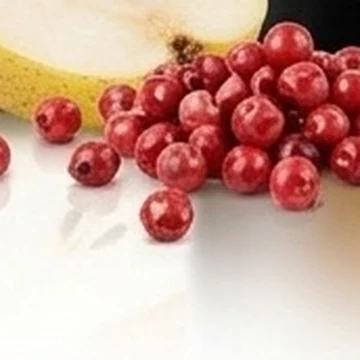
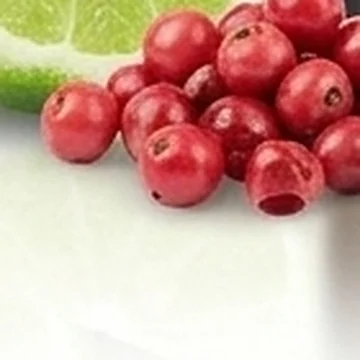
v30b: visų kvapų natos su tikromis ingredientų nuotraukomis
- 40 natų nuotraukų, iškirptų iš 10 kvapų aliejų nuotraukų vienodu stiliumi
  (img/natos/, 360 px WebP); notes.json - pavadinimai ir sinonimai,
  check.mjs tikrina failus.
- Migracija 20261122110000_scent_notes.sql: visų kvapų natos pilnos ir
  teisingos pagal originalą, LIBRADORE - Yves Saint Laurent Libre,
  aprašymų natų sakinys ir šūkiai sutvarkyti.

Claude-Session: https://claude.ai/code/session_016fuiRzwq9pvMJAwpfmVS4b

diff --git a/CLAUDE.md b/CLAUDE.md
@@ -44,6 +44,7 @@ Duomenų bazė, paskyros, failai ir serverio funkcijos – **Supabase** (projekt
 - v29: prekės puslapis pagal kategoriją (`28-story.js`, `13-story.css`): po pavadinimu – paantraštė (`subtitleOf`: produkto → tipo → kvepalams „Eau de Parfum · Unisex“; kategorijos nuorodos virš pavadinimo nebėra); aprašymas – pastraipos, pavadinimas, talpa ir natos paryškinami automatiškai (`descHTML`, LT galūnės, kiekviena – vieną kartą; aprašymas, prasidedantis pavadinimu, jo nekartoja – v29d), ilgas – „Skaityti daugiau“; po pirkimu – blokai (`storyHTML`, rodomi tik su duomenimis): natos (kvepalams – segmentai Viršutinės · Širdies · Bazinės, `.ntSeg`, aukštis nesikeičia; kitiems – 3 pagrindinės), kvapo charakteris (ilgaamžiškumas / sklaida – tik ne numatytos 3), nuotaikos juosta (įkelta nuotrauka – `moodOf`: produktas → bendras kvapas; be jos – „kvapo linija“: tikros to paties kvapo formų nuotraukos), „Kaip naudoti“ (žingsniai, telefone – slenkama eilė), „Kur …“ piktogramos (`STORY_ICO` – savos linijinės), mėginuko kortelė, pastaba; išskleidžiamos dalys – pabaigoje. Tekstai pagal tipą – `src/data/pdp.json` (`window.VAIDORE_PDP`) + administravimo `settings.pdp[tipas]` (`pdpOf`). Natų nuotraukos – TIK tikri ingredientai iš Vaidore produktų nuotraukų: numatytoji biblioteka `src/data/notes.json` + `img/natos/` (`window.VAIDORE_NOTES`), bazėje `note_media` – papildo ir perrašo (`noteMedia`: „Madagaskaro vanilė“ → „Vanilė“). Jokių savų kompozicijų ar piešinių vietoje nuotraukų. Kompiuteryje – iki 1100 px, bloko antraštė kairėje, turinys dešinėje; įsiliejimas slenkant (`bindStory`, be judesio – jei išjungtas).
 - v29b: aliejai – natos, kvapo linija, „Kaip naudoti“ su elektriniu difuzoriumi, saugos pastaba; elektriniai difuzoriai – „Kaip veikia“, „Kur naudoti“, „Priežiūra“ (be natų ir kvapo linijos); žvakės – natos, „Pirmasis uždegimas ir priežiūra“, saugos pastaba. „Pagrindinės natos“ – pirmiausia natos su skirtingomis tikromis nuotraukomis (`mainNotes`).
 - v29c: administravimas (`src/scripts/admin/15-pdp.js`, migracija `20261122090000_product_page.sql`): Katalogas → Natos (`admin/natos` – natų biblioteka `note_media`: „Iškirpti iš produkto nuotraukos“ – bet kuri parduotuvės nuotrauka, tempiama / mastelis, 480 px WebP `products/natos/…`; „Įkelti nuotrauką“, „Pašalinti“), Produktas → „Puslapio turinys“ (paantraštė, nuotaikos juosta), Kvapas → „Nuotaikos juosta“, Vitrina → Prekių puslapiai (`admin/vitrina/puslapiai` – `settings.pdp`, išsaugomi tik skirtumai nuo `pdp.json`). Be migracijos stulpelių laukai nerodomi. Išsamiau – ARCHITECTURE „Prekės puslapis pagal kategoriją (v29)“.
+- v30b: natų biblioteka - 40 tikrų ingredientų nuotraukų, iškirptų iš Vaidore aliejų nuotraukų (10 kvapų) vienodu stiliumi (`img/natos/`, 360 px WebP); `src/data/notes.json` - pavadinimai ir sinonimai (pvz. „Tonka pupelės“, „Ambrinė mediena“, „Hedionas“ → jazminas), `check.mjs` tikrina failus. Ingredientas įvardytas pagal to kvapo originalo natas. Visų kvapų natos (viršutinės, širdies, bazinės) - pilnos ir teisingos pagal originalą; LIBRADORE - Yves Saint Laurent Libre (ne Good Girl): migracija `20261122110000_scent_notes.sql` (natos, natų sakinys aprašyme, šūkiai). Natos be nuotraukos (muskusas, ąžuolo samanos, citrina, imbieras, vetiveris…) - monograma, kol nėra tikros nuotraukos.
 - Be „Kada tinka“ (v19): sezonų, paros laiko ir progų nėra niekur – nei parduotuvėje (filtrai, „Kam skirti“, paieška, kvapo testas – 3 klausimai), nei administravime (produkto ir kvapo formos, skyrių taisyklės, automatinis užpildymas ir jo aprašymai). Stulpeliai `seasons/times/occasions` duomenų bazėje lieka nenaudojami. Nepridėti atgal.
 - Originalas „Įkvėpti …“ (v18): kortelėse vietoj natų – originalo blokelis (`inspiredHTML(p, "card" | "lg" | "sm")`, `splitInspired` – 03-catalog.js; stiliai `.insp`, `.inspPh`, `.inspBrand`, `.inspName` – 05-products.css): kairėje kvadratinė originalo nuotrauka (`products.inspired_image` → `p.inspiredImage`; nėra – prekės ženklo raidė), dešinėje prekės ženklas ir kvapo pavadinimas; be originalo – šūkis (`.cardTag`), kortelės lygios. Produkto puslapyje (v24) – toks pat kaip karuselėse, vienoje eilutėje, tik stambesnis (`inspiredHTML(p, "pd")`, `.insp-pd`: 52 px nuotrauka, 18 px tekstas), pirmas `.pdInfo` elementas – telefone iškart po nuotrauka, kompiuteryje po pavadinimu; paieškoje – mažas. Nuotrauka įkeliama administravime Kvapai → kvapas (`scents.inspired_image`, migracija `20261121090000_scent_inspired_image.sql`, kelias `products/originalai/…`), visada pritaikoma susietiems produktams (be stulpelio `scents.inspired_image` – laikoma tik produktuose); įkelti galima tik kvape (v19), produkto formoje – tik miniatiūra. Natų eilutės (`.pdKey`) produkto puslapyje nėra. Nustatymai: Vitrina → Prekių kortelės (`inspired.show`, `inspired.photo`).
 - Administravimas (v16, iOS stilius): `src/scripts/admin/` – `01-core` (apvalkalas: skirtukai telefone / ikonų juosta planšetėje / šoninis meniu kompiuteryje; `pageHTML`, `groupHTML`, `navRow`, `fieldHTML`, vidiniai ekranai `pushPane`/`popPane`, `splitPanes`, `rowActions` – braukimas ir kontekstinis meniu, `actionSheet`, `sortable`, klaviatūra, seni adresai), `02-overview` (Šiandien), `03-orders` (sąrašas + užsakymo ekranas), `04-products` (sąrašas + forma su vidiniais ekranais, automatinis užpildymas su peržiūra), `05-categories`, `06-reviews`, `07-restock`, `08-settings` (nustatymų grupės `SET_PAGES`, „Daugiau“ ekranas, Vitrinos „Prekių kortelės“ ir „Mūsų istorija“), `09-log`, `10-home` (Vitrina: skaidrės, skyriai, plytelės – atskiri ekranai su peržiūra), `11-newsletter`, `12-topbar` (juosta virš header'io, `admin/vitrina/juosta`), `13-autofill*`, `14-scents`, `15-pdp` (natų biblioteka, nuotaikos juosta, prekių puslapių tekstai, v29). Struktūra: Šiandien · Užsakymai · Katalogas (Produktai, Kvapai, Kategorijos, Natos) · Vitrina · Daugiau. Stiliai – `admin.css`, reikšmės – `--ax-*` (01-tokens.css). Išsamiau – ARCHITECTURE „Administravimo skydelis“. Ekrano nuotraukos – `npm run shots:admin`.

diff --git a/docs/ARCHITECTURE.md b/docs/ARCHITECTURE.md
@@ -292,6 +292,9 @@ dviem stulpeliais, centre iki 1100 px: antraštė kairėje, turinys dešinėje.
   Vaidore produktų nuotraukų; `window.VAIDORE_NOTES`), bazėje – `note_media` (papildo ir perrašo). Paieška (`noteMedia`):
   tikslus pavadinimas, kitaip – pagrindinis žodis („Madagaskaro vanilė“ → „Vanilė“, „Jazminas sambac“ → „Jazminas“).
   Be nuotraukos – monograma. Apskritime nuotrauka užpildo visą plotą, baltas fonas susilieja (`mix-blend-mode: multiply`).
+  v30b: 40 nuotraukų iš 10 kvapų aliejų nuotraukų (vienodas iškirpimas: ingredientas centre, be buteliuko, 360 px WebP);
+  ingredientas pavadintas pagal to kvapo originalo natas (pvz. INVIDORE mediena - gvajako mediena, BACADORE mediena su
+  sakų lašais - kėnių derva). `notes.json` - pagrindiniai pavadinimai ir sinonimai; `check.mjs` tikrina failus.
 - **Tekstai pagal tipą** – `src/data/pdp.json` (`window.VAIDORE_PDP`, `pdpOf`) + `settings.pdp[tipas]` (tik skirtumai).
 - Įsiliejimas slenkant – `bindStory` (IntersectionObserver, tik `opacity` ir `transform`, vieną kartą; be judesio – jei
   „Reduce motion“). Katalogo objektai nekeičiami (natų žemėlapis `NOTE_IMG`, `SCENT_INFO` – atskirai), kad atnaujinus
